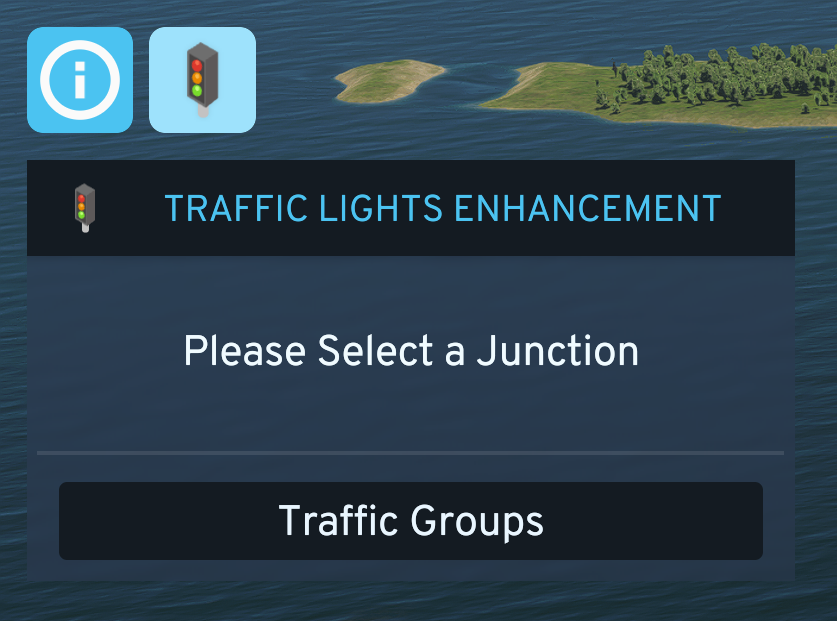
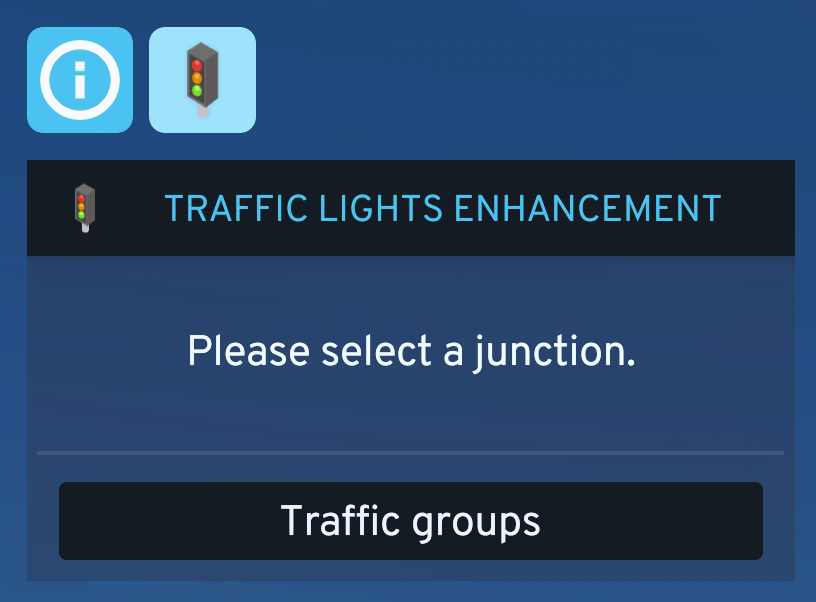
Refresh guide screenshots and add a TSP screenshot (#132)
* Update guide screenshots and add TSP screenshot

Replace the toolbar, panel, and options screenshots with current
captures, and add a Transit signal priority screenshot under that
heading. The <img> heights are set to each file's actual aspect ratio
at width 420 (button 151, panel 310, options 800, tsp 132).

* Drop unused TSP guide screenshot

Remove tle-tsp.png and its reference under the Transit signal priority
heading; it will not be used in the guide.

* Use higher-resolution guide screenshots

Replace the toolbar, panel, and options screenshots with sharper
captures and update <img> heights to the new aspect ratios at width 420
(button 148, options 864; panel unchanged at 310).

* Lowercase mid-sentence feature names in guide prose

Feature, mode, and template names are not proper nouns, so in running
prose they are lowercase mid-sentence (transit signal priority, custom
phases, give way to oncoming vehicles, the exclusive pedestrian phase,
quick cycle, etc.). Headings, table labels, and sentence starts keep
their leading capital.

* Tighten TSP table and narrow guide images to 400px

Trim the Transit signal priority source-option rows to a one-line
description each; the tram-strength and bus-lane vs mixed-lane detail
already lives in the paragraphs below, so the table no longer repeats it.
Reduce the three guide screenshots from 420px to 400px wide with
proportional heights (button 141, panel 295, options 823).

* Give TSP table rows an informative one-liner each
[…]

diff --git a/GUIDE.md b/GUIDE.md
@@ -14,21 +14,21 @@ You can use it to:
 The mod supports both left-hand traffic and right-hand traffic. It is also intended to keep existing Traffic Lights Enhancement intersection settings compatible when you load a city with TLE Extended.
 
 > [!TIP]
-> If a mode or option is missing, the selected intersection probably cannot use it. Try a simpler road junction, or use Custom phases if you want to build the signal behavior yourself.
+> If a mode or option is missing, the selected intersection probably cannot use it. Try a simpler road junction, or use custom phases if you want to build the signal behavior yourself.
 
 ## How to use
 
 1. Select the Traffic Lights Enhancement button from the top-left toolbar.
 
-<img width="420" height="164" alt="Traffic Lights Enhancement toolbar button" src="docs/images/guide/tle-button.png" />
+<img width="400" height="141" alt="Traffic Lights Enhancement toolbar button" src="docs/images/guide/tle-button.png" />
 
 2. The Traffic Lights Enhancement panel opens. Click a signalized intersection once to select it.
 
-<img width="420" height="312" alt="Traffic Lights Enhancement panel before selecting an intersection" src="docs/images/guide/tle-panel.png" />
+<img width="400" height="295" alt="Traffic Lights Enhancement panel before selecting an intersection" src="docs/images/guide/tle-panel.png" />
 
-3. Choose the signal mode and options you want. Turn on [Transit signal priority](#transit-signal-priority) only at intersections where you want the lights to give approaching trams or buses an edge.
+3. Choose the signal mode and options you want. Turn on [transit signal priority](#transit-signal-priority) only at intersections where you want the lights to give approaching trams or buses an edge.
 
-<img width="420" height="766" alt="Traffic Lights Enhancement selected-intersection options" src="docs/images/guide/tle-options.png" />
+<img width="400" height="823" alt="Traffic Lights Enhancement selected-intersection options" src="docs/images/guide/tle-options.png" />
 
 4. Click Save. The selected intersection should now use those settings.
 
@@ -57,7 +57,7 @@ These options appear when the selected mode and intersection layout support them
 | Exclusive pedestrian phase | Adds a separate pedestrian phase where vehicle traffic stops while crossings are served. |
 | Pedestrian phase duration | Changes how long the exclusive pedestrian phase lasts. Treat this as a multiplier: larger values mean a longer pedestrian green. Pedestrian lights do not automatically extend when more pedestrians are waiting. |
 
-Allow turning on red and Give way to oncoming vehicles control road-vehicle behaviour, so they are hidden at tram-only junctions that have no road vehicle lanes. The Exclusive pedestrian phase and its duration still appear there, since pedestrians may cross the tram tracks.
+Allow turning on red and give way to oncoming vehicles control road-vehicle behaviour, so they are hidden at tram-only junctions that have no road vehicle lanes. The exclusive pedestrian phase and its duration still appear there, since pedestrians may cross the tram tracks.
 
 > [!WARNING]
 > Some pedestrian pathfinding problems appear to come from the game's node or pathfinding behavior. This mod can control signal phases, but it cannot fix every pedestrian routing issue at unusual junctions.
@@ -73,7 +73,7 @@ The custom phase editor has two timing styles:
 | Dynamic | The signal reacts to measured traffic demand. Empty or low-demand phases can be skipped when their settings allow it. |
 | Fixed timed | The signal follows the phase order and timing more directly. Smart phase selection can still choose phases based on demand when enabled. |
 
-Timing templates are starting points for the phase settings. They adjust timing values for every custom phase; they do not inspect which phase serves cars, pedestrians, or tracks. For example, Quick cycle uses shorter timings, Heavy traffic uses longer timings, Pedestrian friendly uses a more balanced timing preset, Rail priority uses a preset intended for track-heavy custom cycles, and Night mode uses very short timings that skip empty phases more readily.
+Timing templates are starting points for the phase settings. They adjust timing values for every custom phase; they do not inspect which phase serves cars, pedestrians, or tracks. For example, quick cycle uses shorter timings, heavy traffic uses longer timings, pedestrian friendly uses a more balanced timing preset, rail priority uses a preset intended for track-heavy custom cycles, and night mode uses very short timings that skip empty phases more readily.
 
 The duration controls are best treated as relative timing values, not exact real-world seconds. Bigger values make phases run longer.
 
@@ -83,12 +83,12 @@ Transit signal priority, or TSP, lets a selected intersection favor approaching 
 
 | Source option | What it does |
 | --- | --- |
-| Enable for trams | Allows approaching trams to request priority. Tram priority is stronger and can move the signal toward a tram-serving phase when the controller can do so safely. |
-| Enable for buses | Allows approaching buses to request priority. Buses on marked bus lanes (bus-only lanes) receive the same aggressive priority as trams: a conflicting phase can be cut short to bring up the bus's green. Buses in mixed lanes keep a softer behavior and can only hold a matching green or select the bus-serving group at normal transition points. Trams still outrank buses. |
+| Enable for trams | Allows approaching trams to request priority. A tram request can cut a conflicting phase short to serve the tram sooner. |
+| Enable for buses | Allows approaching buses to request priority. A bus request waits for a normal phase change, unless the bus is on a dedicated bus lane. |
 
 TSP is meant to reduce avoidable transit delay. It does not guarantee that every bus or tram gets an instant green light.
 
-Trams have higher priority than buses. Dedicated bus lanes grant the stronger, tram-style priority to buses detected on them. Buses in mixed lanes are supported but use the softer hold-or-select behavior, because stop relation and lane-change uncertainty make aggressive preemption harder to apply safely there.
+Trams take precedence over buses. Buses detected on dedicated bus lanes can cut a conflicting phase short, just like trams. Buses in mixed lanes instead wait for a normal phase change to hold or bring up their green, because stop relation and lane-change uncertainty make it harder to safely cut other phases short there.
 
 TSP also respects pedestrian protection. If an exclusive pedestrian phase is active or due, the mod may delay or ignore a transit request so pedestrians are not starved.
 

diff --git a/README.md b/README.md
@@ -6,7 +6,7 @@ Current capabilities include:
 
 * Set traffic lights to predefined signal modes.
 * Configure custom traffic-light phases at supported junctions.
-* Enable optional Transit signal priority for trams or buses on selected intersections. Buses on marked bus lanes receive tram-strength aggressive priority; buses in mixed lanes use a softer form.
+* Enable optional Transit signal priority for trams or buses on selected intersections. Buses on a dedicated bus lane can cut a conflicting phase short like trams; in mixed lanes they wait for a normal phase change.
 * Use opt-in diagnostics when investigating selected-junction behavior, including Transit signal priority.
 
 See the [guide](GUIDE.md), [roadmap](ROADMAP.md), [TSP architecture notes](docs/tsp-architecture.md), [traffic group notes](docs/traffic-groups.md), [custom phase data flow](docs/custom-phase-data-flow.md), and [save-format contract](docs/save-format-contract.md) for the current direction of the project. Coding agents should start with [AGENTS.md](AGENTS.md) and the [agent workflow notes](docs/agent-workflow.md).
